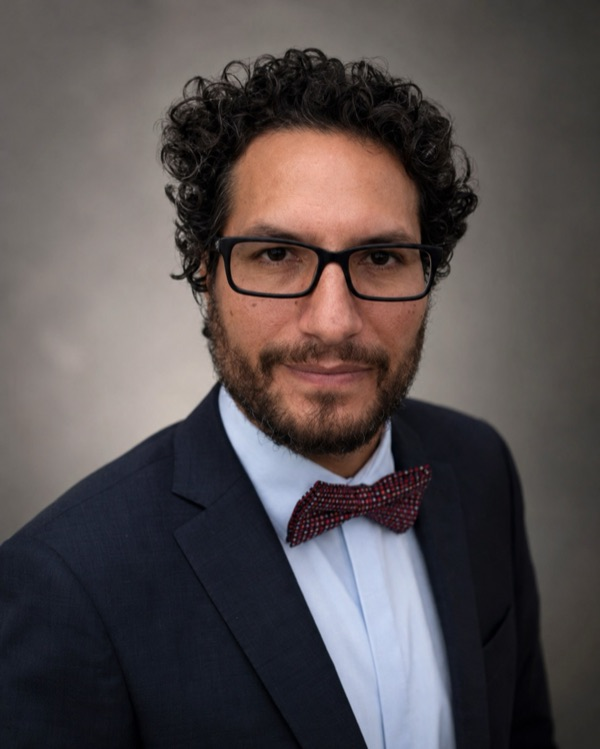
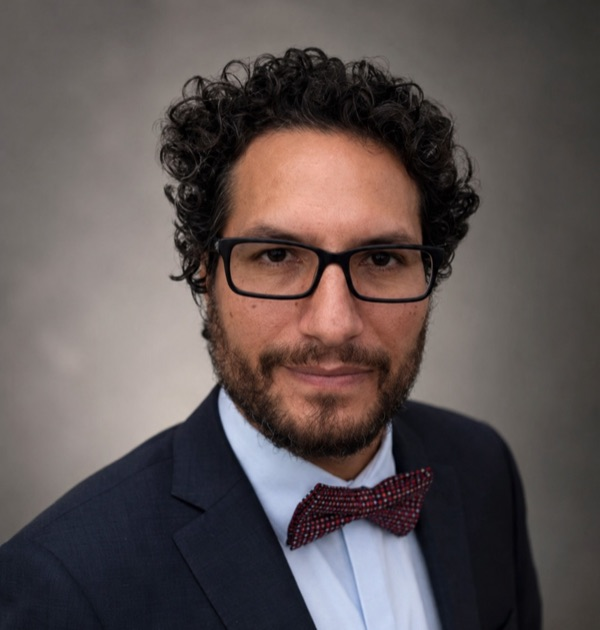
docs(tupana): fix Co-Evolving Minds date and headshot crop

diff --git a/docs/colleague-review-evaluator-packet.html b/docs/colleague-review-evaluator-packet.html
@@ -604,7 +604,7 @@
       <li>Torres-Vélez, V. M. (forthcoming, Fall 2026). “What If the Problem Was Never the Student? AI, Writing, and the Limits of Deficit Pedagogy.” <em>The Hostos CTL Newsletter</em>.
         <details><summary>About this essay</summary><p>A first-person essay tracing the deficit-model writing support the author encountered as a first-generation bilingual graduate student — and that his Hostos students still describe — to the design philosophy behind Tu Pana de Escritura: the studio’s pedagogical rationale, grounded in Freire, translingual and linguistic justice scholarship, and process-writing research, in the founder’s own voice.</p></details>
       </li>
-      <li>Torres-Vélez, V. M. (forthcoming). “Co-Evolving Minds: The Role of AI in Shaping Our Future.” <em>Touchstone</em> (Teaching Tips), Hostos CTL.
+      <li>Torres-Vélez, V. M. (2025, March). “Co-Evolving Minds: The Role of AI in Shaping Our Future.” <em>Touchstone</em> (Teaching Tips), Hostos CTL.
         <details><summary>About this essay</summary><p>A short Teaching Tips reflection on AI and teaching — framing human–AI co-evolution for the classroom.</p></details>
       </li>
       <li>Torres-Vélez, V. M. (2022). “Amidst the Pandemic: On Becoming a Shaman of Zeros-and-Ones at Hostos.” <em>Touchstone, 11</em>(1), 21–23. Hostos CTL.
@@ -848,7 +848,7 @@
     <p>Pilots stay small and guarded: your students would receive instructor-issued, assignment-specific links — never the review selector — and you would see the process evidence their work generates.</p>
     <p style="margin-top:14px;"><strong>Interested?</strong> Reach out with your course, the assignment you have in mind, or simply your questions — or include a note with your reviewer feedback.</p>
     <div class="founder-card">
-      <img class="founder-photo" src="assets/torres-velez-headshot.jpg" alt="Portrait of Dr. Víctor M. Torres-Vélez" width="600" height="749">
+      <img class="founder-photo" src="assets/torres-velez-headshot.jpg" alt="Portrait of Dr. Víctor M. Torres-Vélez" width="600" height="630">
       <div>
         <div class="check-group-title">About the founder</div>
         <p>Dr. Víctor M. Torres-Vélez is Associate Professor at Eugenio María de Hostos Community College, CUNY. His teaching and scholarship focus on Latinx and Caribbean studies, anthropology, multilingual pedagogy, writing, language, and educational equity. Tu Pana Writing Studio grew out of his classroom work with first-generation, multilingual, Caribbean, Puerto Rican, Latinx, Spanish-speaking, and Central American students at a Hispanic-Serving Institution.</p>
